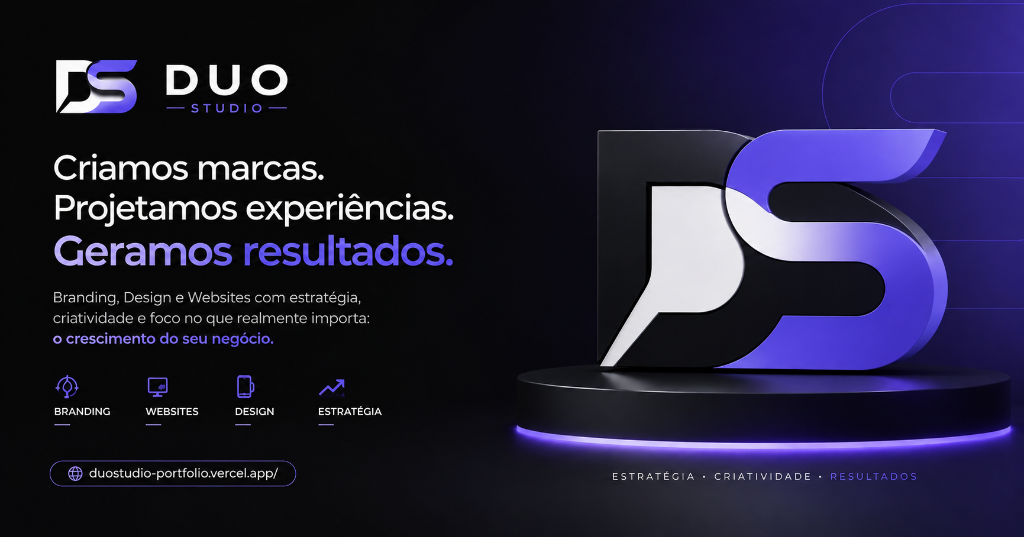
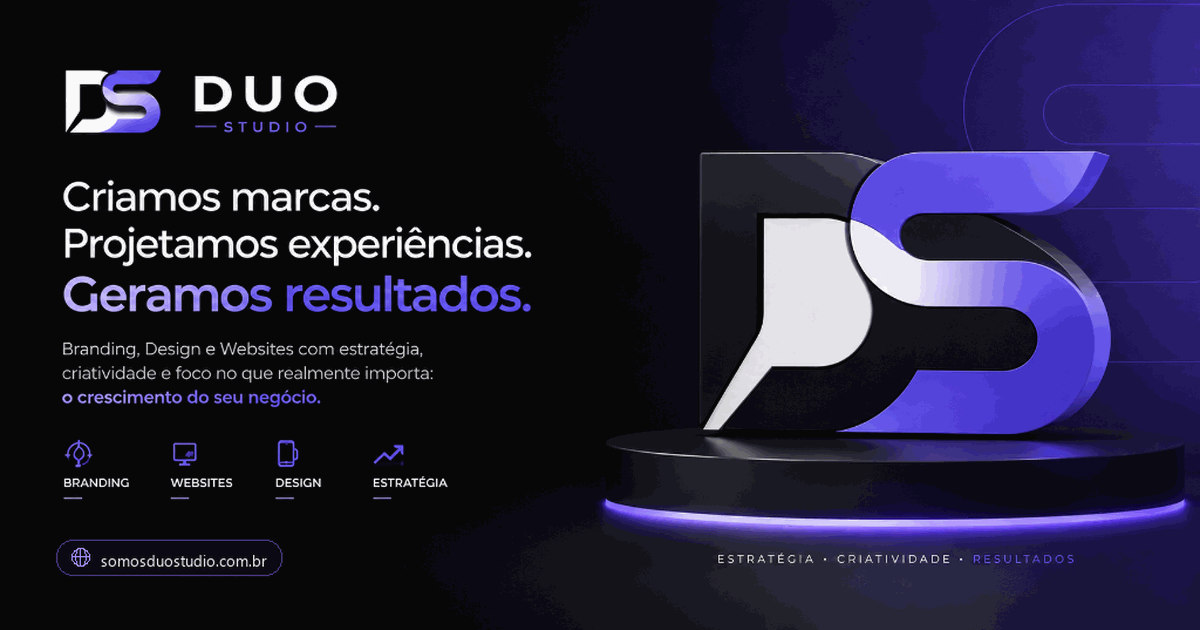
feat: update OG images, domain references to somosduostudio.com.br and add WhatsApp lead tracking parameters

diff --git a/index.html b/index.html
@@ -26,6 +26,11 @@
   <meta property="og:image:width" content="1200">
   <meta property="og:image:height" content="630">
   <meta property="og:image:alt" content="Duo Studio - Engenharia Digital & Websites de Alta Conversão">
+  <meta property="og:image" content="https://somosduostudio.com.br/assets/og-image.webp">
+  <meta property="og:image:secure_url" content="https://somosduostudio.com.br/assets/og-image.webp">
+  <meta property="og:image:type" content="image/webp">
+  <meta property="og:image:width" content="1200">
+  <meta property="og:image:height" content="630">
   <meta property="og:locale" content="pt_BR">
   <meta property="og:site_name" content="Duo Studio">
 
@@ -251,7 +256,7 @@
               <span class="w-3 h-3 rounded-full bg-red-500/70 inline-block"></span>
               <span class="w-3 h-3 rounded-full bg-yellow-500/70 inline-block"></span>
               <span class="w-3 h-3 rounded-full bg-green-500/70 inline-block"></span>
-              <span class="hidden md:inline-block text-gray-400 font-mono text-[11px] ml-2">duostudio.com.br</span>
+              <span class="hidden md:inline-block text-gray-400 font-mono text-[11px] ml-2">somosduostudio.com.br</span>
             </div>
 
             <!-- Hero Interactive Mode Selector Tabs -->
@@ -1133,12 +1138,12 @@
                 <line x1="17.5" x2="17.51" y1="6.5" y2="6.5"></line>
               </svg>
             </a>
-            <a href="https://wa.me/5594999099386" target="_blank" rel="noopener noreferrer"
+            <a href="https://wa.me/5594999099386?text=Ol%C3%A1!%20Vim%20pelo%20rodap%C3%A9%20do%20site%20da%20Duo%20Studio%20e%20gostaria%20de%20falar%20com%20um%20s%C3%B3cio." target="_blank" rel="noopener noreferrer"
               class="w-10 h-10 rounded-full bg-white/5 hover:bg-emerald-600 hover:text-white border border-white/10 flex items-center justify-center transition-all text-gray-300"
               aria-label="WhatsApp 1">
               <i data-lucide="message-circle" class="w-4 h-4"></i>
             </a>
-            <a href="https://wa.me/5594992811658" target="_blank" rel="noopener noreferrer"
+            <a href="https://wa.me/5594992811658?text=Ol%C3%A1!%20Vim%20pelo%20rodap%C3%A9%20do%20site%20da%20Duo%20Studio%20e%20gostaria%20de%20falar%20com%20um%20s%C3%B3cio." target="_blank" rel="noopener noreferrer"
               class="w-10 h-10 rounded-full bg-white/5 hover:bg-emerald-600 hover:text-white border border-white/10 flex items-center justify-center transition-all text-gray-300"
               aria-label="WhatsApp 2">
               <i data-lucide="phone" class="w-4 h-4"></i>
@@ -1173,12 +1178,12 @@
               <i data-lucide="mail" class="w-4 h-4 text-violet-400"></i>
               <span>somosduostudiobr@gmail.com</span>
             </a>
-            <a href="https://wa.me/5594999099386" target="_blank" rel="noopener noreferrer"
+            <a href="https://wa.me/5594999099386?text=Ol%C3%A1!%20Peguei%20seu%20contato%20no%20site%20da%20Duo%20Studio." target="_blank" rel="noopener noreferrer"
               class="flex items-center gap-3 hover:text-white transition-colors">
               <i data-lucide="phone" class="w-4 h-4 text-emerald-400"></i>
               <span>+55 (94) 99909-9386</span>
             </a>
-            <a href="https://wa.me/5594992811658" target="_blank" rel="noopener noreferrer"
+            <a href="https://wa.me/5594992811658?text=Ol%C3%A1!%20Peguei%20seu%20contato%20no%20site%20da%20Duo%20Studio." target="_blank" rel="noopener noreferrer"
               class="flex items-center gap-3 hover:text-white transition-colors">
               <i data-lucide="phone" class="w-4 h-4 text-violet-400"></i>
               <span>+55 (94) 99281-1658</span>
